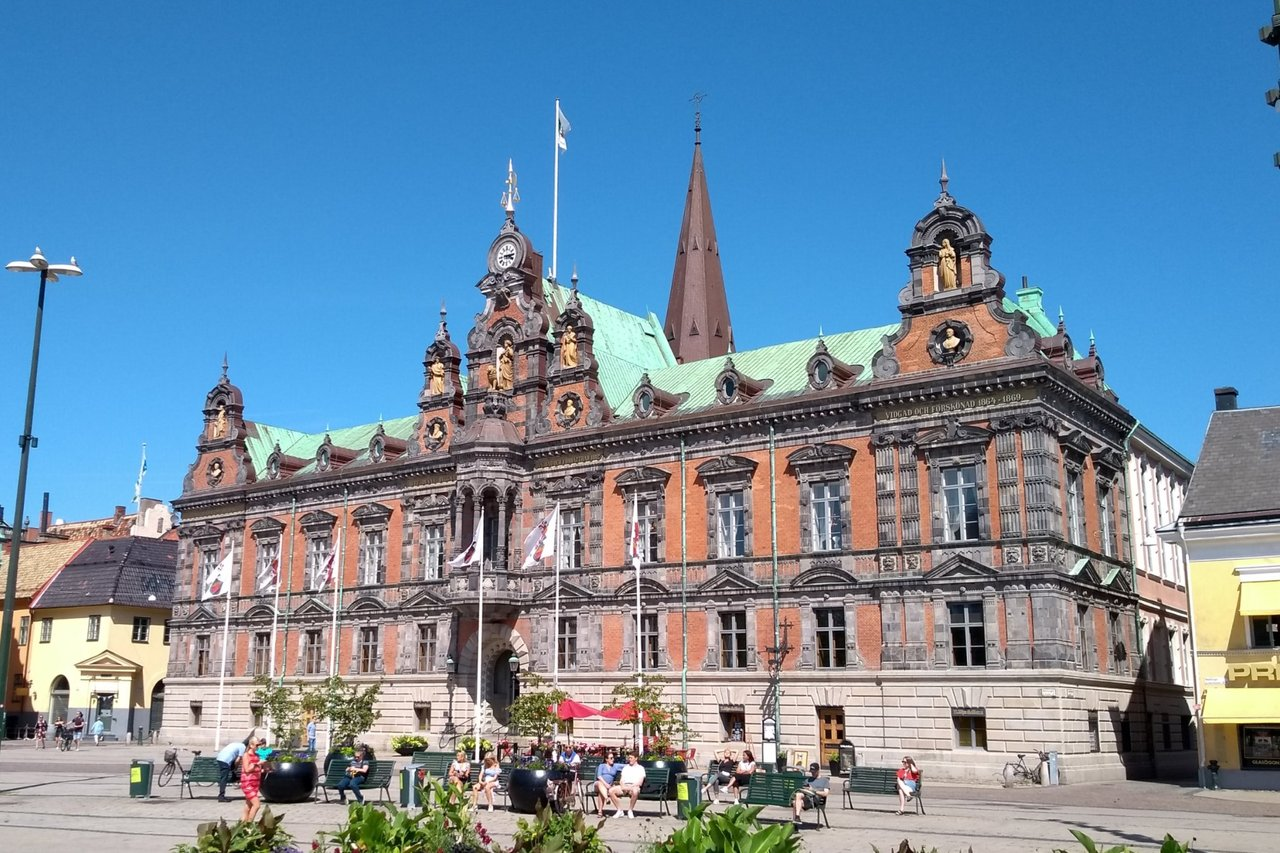
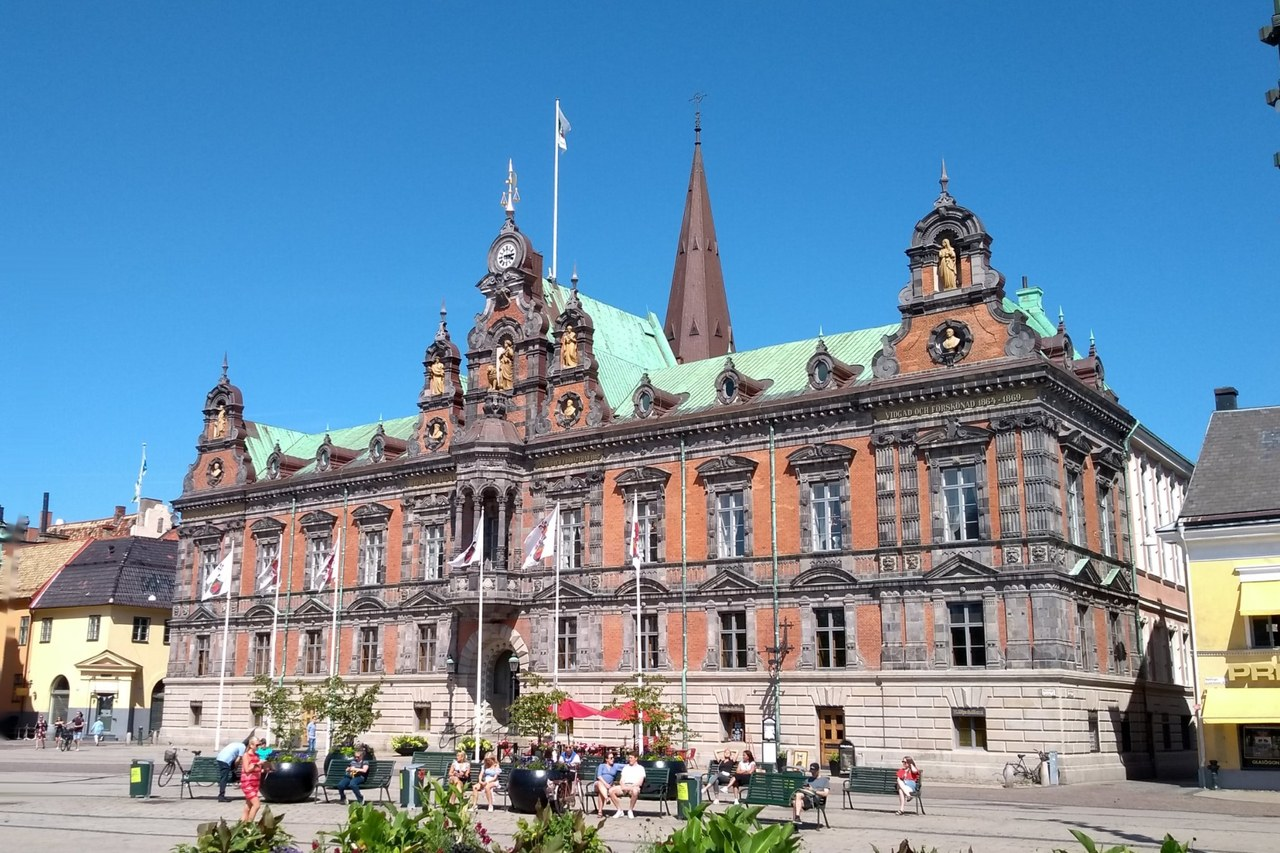
Add files via upload

Changed region(s): [[0.0, 0.3658, 0.0312, 0.8535], [0.0, 0.3048, 0.0625, 0.3658], [0.0, 0.9144, 0.0312, 0.9449]]

diff --git a/index.html b/index.html
@@ -42,7 +42,7 @@ tegels:
         {% for stad in site.data.steden %}{% if stad.foto %}
         <div class="hero-slide{% if eerste %} actief{% endif %}" data-sleutel="{{ stad.bestand }}" data-naam="{{ stad.naam }}">
           <div class="hero-foto">
-            <img data-src="{{ stad.herofoto | default: stad.foto | relative_url }}" alt="{{ stad.naam }}" decoding="async"{% if stad.herofotopositie %} style="object-position: {{ stad.herofotopositie }}"{% endif %}>
+            <picture>{% if stad.herofoto_mobiel %}<source media="(max-width: 800px)" srcset="{{ stad.herofoto_mobiel | relative_url }}">{% endif %}<img data-src="{{ stad.herofoto | default: stad.foto | relative_url }}" alt="{{ stad.naam }}" decoding="async"></picture>
             {% if eerste %}<noscript><img src="{{ stad.herofoto | default: stad.foto | relative_url }}" alt="{{ stad.naam }}"></noscript>{% endif %}
             <div class="hero-label">
               <p class="regio-label">{{ stad.regio }}</p>

diff --git a/opmaak/style.css b/opmaak/style.css
@@ -401,6 +401,7 @@ main.home { padding: 0; }
   font-size: 18px;
 }
 .hero-slide:nth-child(even) .hero-foto { background: #dce7f2; }
+.hero-foto picture { display: block; width: 100%; height: 100%; }
 .hero-foto img { width: 100%; height: 100%; object-fit: cover; }
 .hero-foto img:not([src]) { visibility: hidden; }
 /* Bijschrift onder de foto (maker, licentie, bron) */
